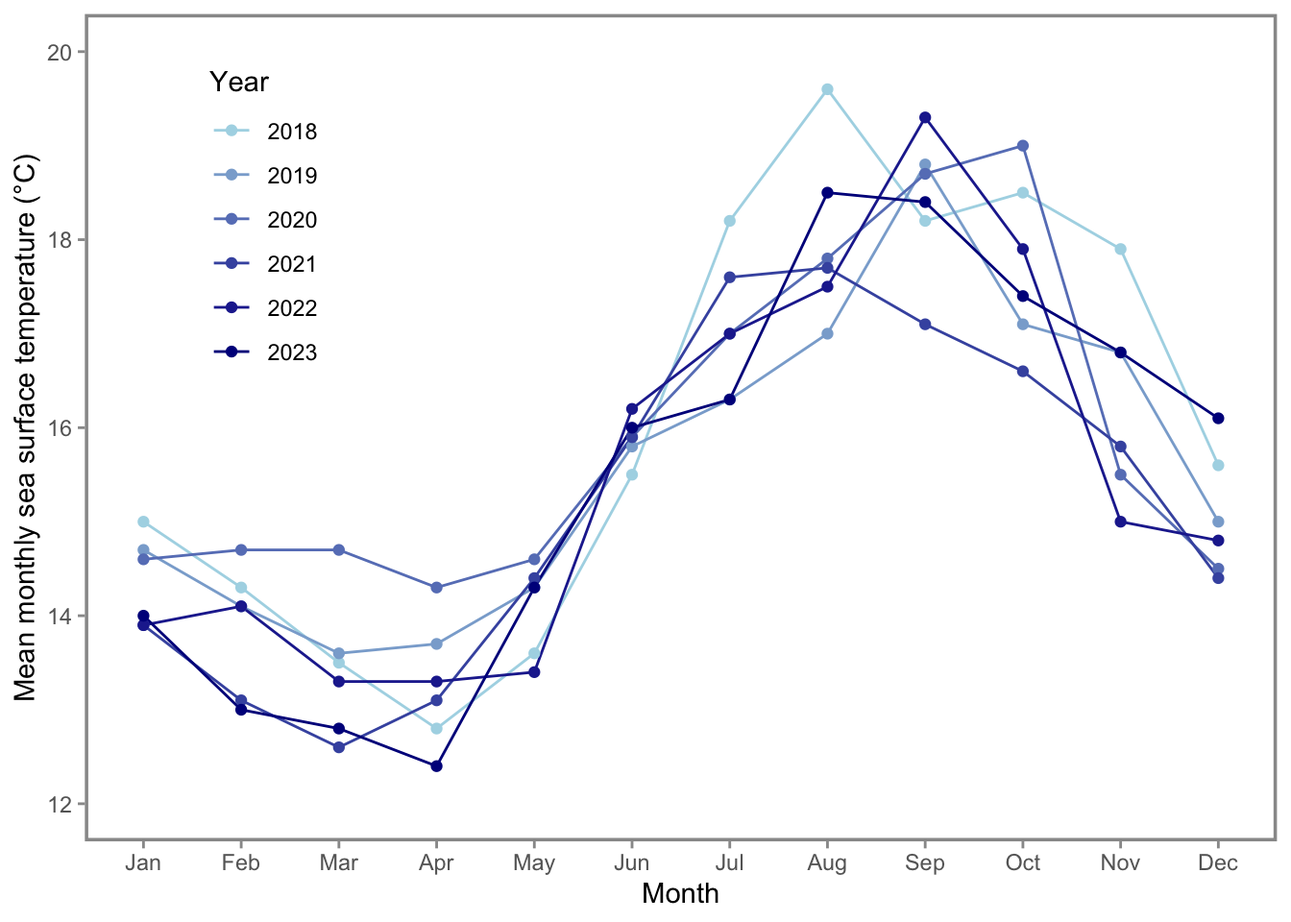
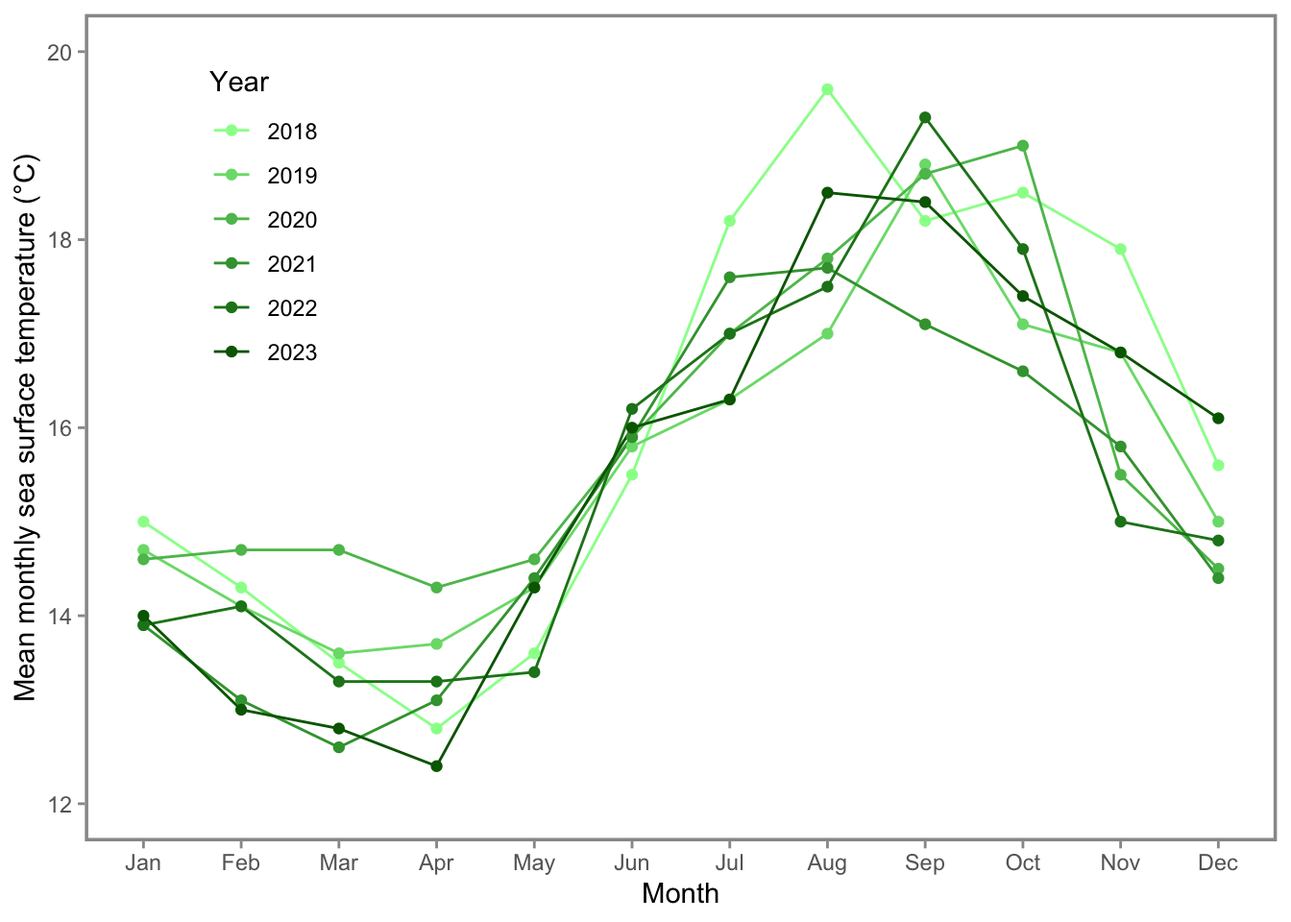
changed the glm models a little and their figures, fixed everything that wasn't rendering properly

diff --git a/code/final_code.html b/code/final_code.html
@@ -176,16 +176,18 @@ pre > code.sourceCode > span > a:first-child::before { text-decoration: underlin
 <h2 class="anchored" data-anchor-id="problem-1.-research-writing">Problem 1. Research writing</h2>
 <section id="a.-transparent-statistical-methods" class="level3">
 <h3 class="anchored" data-anchor-id="a.-transparent-statistical-methods">a. Transparent Statistical Methods</h3>
-<p>In the first part, they used a correlation test to see if there is a relationship between teh distance in km from headwater and the annual total nitrogen load in kg per year. This could have been Pearson’s correlation since its two continuous variables or Spearman’s if its not normally distributed and nonlinear. In part 2, they used an ANOVA test to see whether the average nitrogen load measured in kg per year is different between sources(urban land, atmospheric dep, fertilizer, wastewater treatment, grasslands). This test was probably picked since there are multiple sources/groups and a one-way ANOVA tests if one group’s mean differs significantly from others</p>
+<p>In the first part, they used a Pearson’s correlation test to see if there is a relationship between the distance in km from headwater and the annual total nitrogen load in kg per year, this is assuming the data is normally distributed otherwise they could have also used Spearman’s.</p>
+<p>In part 2, they used an ANOVA test to see whether the average nitrogen load measured in kg per year is different between sources(urban land, atmospheric dep, fertilizer, wastewater treatment, grasslands). This test was probably picked since there are multiple sources/groups and a one-way ANOVA tests if one group’s mean differs significantly from others</p>
 </section>
 <section id="b.-more-information-needed" class="level3">
 <h3 class="anchored" data-anchor-id="b.-more-information-needed">b. More information needed</h3>
-<p>To improve the ANOVA interpretation, a Post-hoc test should be invluded because while ANOVA tells you that atleast one group mean is different, it doesn’t tell you how many groups or which groups are significantly different. A test like Tukey’s HSD would clarify which nitrogen sources, like fertilizer or wastewater, differ significantly in nitrogen loads. Another important thing to include would be summary statistics, like mean standard error and range, for each group, this would convey important information in the direction and magnitude of differences as well as how spread out the data is.</p>
+<p>To improve the ANOVA interpretation, a Post-hoc test should be invluded because while ANOVA tells you that atleast one group mean is different, it doesn’t tell you how many groups or which groups are significantly different. A test like Tukey’s HSD would clarify which nitrogen sources, like fertilizer or wastewater, differ significantly in nitrogen loads.</p>
+<p>Another important thing to include would be summary statistics, like mean, standard error, and range, for each group, this would convey important information in the direction and magnitude of differences as well as how spread out the data is.</p>
 </section>
 <section id="c.-suggestions-for-rewriting" class="level3">
 <h3 class="anchored" data-anchor-id="c.-suggestions-for-rewriting">c.&nbsp;Suggestions for rewriting</h3>
 <p>Sites farther from the river headwaters were associated with higher total annual nitrogen loads, suggesting that nitrogen accumulates as water flows downstream. We rejected the null hypothesis that there is no correlation between distance from headwater (km) and annual total nitrogen load (kg year-1) (Pearson’s correlation test, r = correlation coefficient, p = 0.03, a = 0.05).</p>
-<p>Nitrogen load varied significantly across different source types; source [a] contributed more nitrogen than [b] which suggests that [a] is a key driver of elevated nitrogen levels in the system. We rejected the null hypothesis that there is no difference in average nitrogen load (kg year-1) between sources (urban land, atmospheric deposition, fertilizer, wastewater treatment, and grasslands) (one-way ANOVA, F=test statistic, df= degrees of freedom, p = 0.02, a = 0.05). A follow up post-hoc Tukey’s HSD test determined that source [a] ( mean difference = average kg/yr, p = p-value ) had significantly higher nitrogen loads than source [b] (mean difference = average kg/yr, p= p-value ); no significant differences were found between the other sources. [I used a and b in place of actual sources like fertilizer etc because this test wasn’t done so results weren’t provided ]</p>
+<p>Nitrogen load varied significantly across different source types; urban land contributed more nitrogen than atmospheric deposition which suggests that urban land is a key driver of elevated nitrogen levels in the system. We rejected the null hypothesis that there is no difference in average nitrogen load (kg year-1) between sources (urban land, atmospheric deposition, fertilizer, wastewater treatment, and grasslands) (one-way ANOVA, F=test statistic, df= degrees of freedom, p = 0.02, a = 0.05). A follow up post-hoc Tukey’s HSD test determined that urban land ( mean difference = mean kg/yr, ±SE, range = range, p = p-value ) had significantly higher nitrogen loads than atmospheric deposition (mean difference = mean kg/yr, ±SE, range = range, p= p-value ); no significant differences were found between the other sources: fertilizer, wastewater treatment, and grasslands.</p>
 </section>
 </section>
 <section id="problem-2.-data-visualization" class="level2">
@@ -199,41 +201,30 @@ pre > code.sourceCode > span > a:first-child::before { text-decoration: underlin
 <span id="cb2-4"><a href="#cb2-4" aria-hidden="true" tabindex="-1"></a>         <span class="at">month=</span> <span class="fu">month</span>(date, <span class="at">label =</span> <span class="cn">TRUE</span>)) <span class="sc">|&gt;</span> <span class="co">#changes format of data</span></span>
 <span id="cb2-5"><a href="#cb2-5" aria-hidden="true" tabindex="-1"></a>  <span class="fu">filter</span>(year <span class="sc">%in%</span>  <span class="fu">c</span>(<span class="st">"2018"</span>, <span class="st">"2019"</span>, <span class="st">"2020"</span>, <span class="st">"2021"</span>, <span class="st">"2022"</span>, <span class="st">"2023"</span>)) <span class="sc">|&gt;</span> <span class="co">#picks specific years i want</span></span>
 <span id="cb2-6"><a href="#cb2-6" aria-hidden="true" tabindex="-1"></a>  <span class="fu">group_by</span>(year, month) <span class="sc">|&gt;</span> <span class="co"># uses year and month to group data for next step</span></span>
-<span id="cb2-7"><a href="#cb2-7" aria-hidden="true" tabindex="-1"></a>  <span class="fu">summarise</span>(<span class="at">mean_monthly_sst=</span> <span class="fu">round</span>(<span class="fu">mean</span>(temp), <span class="dv">1</span>)) <span class="co">#creates rounded mean column</span></span>
+<span id="cb2-7"><a href="#cb2-7" aria-hidden="true" tabindex="-1"></a>  <span class="fu">summarise</span>(<span class="at">mean_monthly_sst=</span> <span class="fu">round</span>(<span class="fu">mean</span>(temp), <span class="dv">1</span>), <span class="at">.groups =</span> <span class="st">"drop"</span>) <span class="co">#creates rounded mean column</span></span>
 <span id="cb2-8"><a href="#cb2-8" aria-hidden="true" tabindex="-1"></a></span>
 <span id="cb2-9"><a href="#cb2-9" aria-hidden="true" tabindex="-1"></a>sst_clean<span class="sc">$</span>year <span class="ot">&lt;-</span> <span class="fu">factor</span>(sst_clean<span class="sc">$</span>year, <span class="at">levels =</span> <span class="fu">c</span>(<span class="st">"2018"</span>, <span class="st">"2019"</span>, <span class="st">"2020"</span>, <span class="st">"2021"</span>, <span class="st">"2022"</span>, <span class="st">"2023"</span>)) <span class="co">#makes year a factor for next steps</span></span>
 <span id="cb2-10"><a href="#cb2-10" aria-hidden="true" tabindex="-1"></a></span>
-<span id="cb2-11"><a href="#cb2-11" aria-hidden="true" tabindex="-1"></a><span class="fu">slice_sample</span>(sst_clean) <span class="sc">|&gt;</span> </span>
-<span id="cb2-12"><a href="#cb2-12" aria-hidden="true" tabindex="-1"></a>  <span class="fu">print</span>(<span class="at">n=</span><span class="dv">5</span>) <span class="co">#shows 5 rows</span></span></code><button title="Copy to Clipboard" class="code-copy-button"><i class="bi"></i></button></pre></div>
+<span id="cb2-11"><a href="#cb2-11" aria-hidden="true" tabindex="-1"></a><span class="co">#slice_sample(sst_clean) |&gt; </span></span>
+<span id="cb2-12"><a href="#cb2-12" aria-hidden="true" tabindex="-1"></a><span class="co">#  print(n=8) #shows 5 rows</span></span>
+<span id="cb2-13"><a href="#cb2-13" aria-hidden="true" tabindex="-1"></a></span>
+<span id="cb2-14"><a href="#cb2-14" aria-hidden="true" tabindex="-1"></a><span class="fu">slice_sample</span>(sst_clean, <span class="at">n=</span><span class="dv">5</span>) <span class="co">#shows 5 rows</span></span></code><button title="Copy to Clipboard" class="code-copy-button"><i class="bi"></i></button></pre></div>
 <div class="cell-output cell-output-stdout">
-<pre><code># A tibble: 6 × 3
-# Groups:   year [6]
+<pre><code># A tibble: 5 × 3
   year  month mean_monthly_sst
   &lt;fct&gt; &lt;ord&gt;            &lt;dbl&gt;
-1 2018  Sep               18.2
-2 2019  Feb               14.1
-3 2020  Sep               18.7
-4 2021  Apr               13.1
-5 2022  Oct               17.9
-# ℹ 1 more row</code></pre>
+1 2023  Jun               16  
+2 2020  Apr               14.3
+3 2019  May               14.3
+4 2023  Dec               16.1
+5 2021  Jan               13.9</code></pre>
 </div>
 <div class="sourceCode cell-code" id="cb4"><pre class="sourceCode r code-with-copy"><code class="sourceCode r"><span id="cb4-1"><a href="#cb4-1" aria-hidden="true" tabindex="-1"></a><span class="fu">str</span>(sst_clean) <span class="co"># shows setup of df</span></span></code><button title="Copy to Clipboard" class="code-copy-button"><i class="bi"></i></button></pre></div>
 <div class="cell-output cell-output-stdout">
-<pre><code>gropd_df [72 × 3] (S3: grouped_df/tbl_df/tbl/data.frame)
+<pre><code>tibble [72 × 3] (S3: tbl_df/tbl/data.frame)
  $ year            : Factor w/ 6 levels "2018","2019",..: 1 1 1 1 1 1 1 1 1 1 ...
  $ month           : Ord.factor w/ 12 levels "Jan"&lt;"Feb"&lt;"Mar"&lt;..: 1 2 3 4 5 6 7 8 9 10 ...
- $ mean_monthly_sst: num [1:72] 15 14.3 13.5 12.8 13.6 15.5 18.2 19.6 18.2 18.5 ...
- - attr(*, "groups")= tibble [6 × 2] (S3: tbl_df/tbl/data.frame)
-  ..$ year : Factor w/ 6 levels "2018","2019",..: 1 2 3 4 5 6
-  ..$ .rows: list&lt;int&gt; [1:6] 
-  .. ..$ : int [1:12] 1 2 3 4 5 6 7 8 9 10 ...
-  .. ..$ : int [1:12] 13 14 15 16 17 18 19 20 21 22 ...
-  .. ..$ : int [1:12] 25 26 27 28 29 30 31 32 33 34 ...
-  .. ..$ : int [1:12] 37 38 39 40 41 42 43 44 45 46 ...
-  .. ..$ : int [1:12] 49 50 51 52 53 54 55 56 57 58 ...
-  .. ..$ : int [1:12] 61 62 63 64 65 66 67 68 69 70 ...
-  .. ..@ ptype: int(0) 
-  ..- attr(*, ".drop")= logi TRUE</code></pre>
+ $ mean_monthly_sst: num [1:72] 15 14.3 13.5 12.8 13.6 15.5 18.2 19.6 18.2 18.5 ...</code></pre>
 </div>
 </div>
 </section>
@@ -244,7 +235,7 @@ pre > code.sourceCode > span > a:first-child::before { text-decoration: underlin
 <span id="cb6-2"><a href="#cb6-2" aria-hidden="true" tabindex="-1"></a>  <span class="fu">geom_line</span>()<span class="sc">+</span><span class="co">#adds line to connect data</span></span>
 <span id="cb6-3"><a href="#cb6-3" aria-hidden="true" tabindex="-1"></a>  <span class="fu">geom_point</span>()<span class="sc">+</span> <span class="co">#adds datapoints</span></span>
 <span id="cb6-4"><a href="#cb6-4" aria-hidden="true" tabindex="-1"></a>  <span class="fu">scale_color_manual</span>(</span>
-<span id="cb6-5"><a href="#cb6-5" aria-hidden="true" tabindex="-1"></a>    <span class="at">values =</span> <span class="fu">colorRampPalette</span>(<span class="fu">c</span>(<span class="st">"lightblue"</span>, <span class="st">"darkblue"</span>))(<span class="dv">6</span>),   <span class="co"># manually adds a scale of 6 blue colors</span></span>
+<span id="cb6-5"><a href="#cb6-5" aria-hidden="true" tabindex="-1"></a>    <span class="at">values =</span> <span class="fu">colorRampPalette</span>(<span class="fu">c</span>(<span class="st">"palegreen"</span>, <span class="st">"darkgreen"</span>))(<span class="dv">6</span>),   <span class="co"># manually adds a scale of 6 green colors</span></span>
 <span id="cb6-6"><a href="#cb6-6" aria-hidden="true" tabindex="-1"></a>    <span class="at">name =</span> <span class="st">"Year"</span></span>
 <span id="cb6-7"><a href="#cb6-7" aria-hidden="true" tabindex="-1"></a>  ) <span class="sc">+</span><span class="co">#name of legend</span></span>
 <span id="cb6-8"><a href="#cb6-8" aria-hidden="true" tabindex="-1"></a>  <span class="fu">scale_y_continuous</span>(<span class="at">limits =</span> <span class="fu">c</span>(<span class="dv">12</span>,<span class="dv">20</span>))<span class="sc">+</span> <span class="co"># adds 20 to top of graph because it wasnt there before</span></span>
@@ -274,7 +265,7 @@ pre > code.sourceCode > span > a:first-child::before { text-decoration: underlin
 </section>
 <section id="b.-purpose-of-study" class="level3">
 <h3 class="anchored" data-anchor-id="b.-purpose-of-study">b. Purpose of study</h3>
-<p>The study’s aim was to investigate how nest box’s occupancy by either the target species, Swift Parrots, or competing species(Common starlings and Tree martins) is influenced by distance from the edge of the forest and time from deployment. Out of the three species, critically endangered Swift Parrots were the intended occupants of the nest boxes, Common starling and Tree martins are the nontarget species occupants.</p>
+<p>The study’s aim was to investigate how nest box’s occupancy by either the target species, Swift Parrots, or competing species(Common starlings and Tree martins) is influenced by distance from the edge of the forest and time from deployment. Out of the three species, critically endangered Swift Parrots were the intended occupants of the nest boxes, Common starling and Tree martins are the nontarget competitve species occupants.</p>
 </section>
 <section id="c.-difference-in-seasons" class="level3">
 <h3 class="anchored" data-anchor-id="c.-difference-in-seasons">c.&nbsp;Difference in seasons</h3>
@@ -324,9 +315,9 @@ pre > code.sourceCode > span > a:first-child::before { text-decoration: underlin
 <h3 class="anchored" data-anchor-id="e.-run-models">e. Run models</h3>
 <div class="cell">
 <div class="sourceCode cell-code" id="cb7"><pre class="sourceCode r code-with-copy"><code class="sourceCode r"><span id="cb7-1"><a href="#cb7-1" aria-hidden="true" tabindex="-1"></a>Model0<span class="ot">&lt;-</span> <span class="fu">glm</span>(sp <span class="sc">~</span> <span class="dv">1</span>, <span class="at">data =</span> nest_boxes_clean, <span class="at">family =</span> <span class="fu">binomial</span>()) <span class="co">#no predictors</span></span>
-<span id="cb7-2"><a href="#cb7-2" aria-hidden="true" tabindex="-1"></a>Model1<span class="ot">&lt;-</span> <span class="fu">glm</span>(sp <span class="sc">~</span> edge_distance, <span class="at">data =</span> nest_boxes_clean) <span class="co">#edge dist</span></span>
-<span id="cb7-3"><a href="#cb7-3" aria-hidden="true" tabindex="-1"></a>Model2<span class="ot">&lt;-</span> <span class="fu">glm</span>(sp <span class="sc">~</span> season, <span class="at">data =</span> nest_boxes_clean) <span class="co"># season</span></span>
-<span id="cb7-4"><a href="#cb7-4" aria-hidden="true" tabindex="-1"></a>Model3<span class="ot">&lt;-</span> <span class="fu">glm</span>(sp <span class="sc">~</span> edge_distance<span class="sc">+</span>season, <span class="at">data =</span> nest_boxes_clean) <span class="co">#both predictors</span></span></code><button title="Copy to Clipboard" class="code-copy-button"><i class="bi"></i></button></pre></div>
+<span id="cb7-2"><a href="#cb7-2" aria-hidden="true" tabindex="-1"></a>Model1<span class="ot">&lt;-</span> <span class="fu">glm</span>(sp <span class="sc">~</span> edge_distance, <span class="at">data =</span> nest_boxes_clean, <span class="at">family =</span> <span class="fu">binomial</span>()) <span class="co">#edge dist</span></span>
+<span id="cb7-3"><a href="#cb7-3" aria-hidden="true" tabindex="-1"></a>Model2<span class="ot">&lt;-</span> <span class="fu">glm</span>(sp <span class="sc">~</span> season, <span class="at">data =</span> nest_boxes_clean, <span class="at">family =</span> <span class="fu">binomial</span>()) <span class="co"># season</span></span>
+<span id="cb7-4"><a href="#cb7-4" aria-hidden="true" tabindex="-1"></a>Model3<span class="ot">&lt;-</span> <span class="fu">glm</span>(sp <span class="sc">~</span> edge_distance<span class="sc">+</span>season, <span class="at">data =</span> nest_boxes_clean, <span class="at">family =</span> <span class="fu">binomial</span>()) <span class="co">#both predictors</span></span></code><button title="Copy to Clipboard" class="code-copy-button"><i class="bi"></i></button></pre></div>
 </div>
 </section>
 <section id="f.-check-diagnostics" class="level3">
@@ -352,6 +343,10 @@ pre > code.sourceCode > span > a:first-child::before { text-decoration: underlin
 <div class="sourceCode cell-code" id="cb9"><pre class="sourceCode r code-with-copy"><code class="sourceCode r"><span id="cb9-1"><a href="#cb9-1" aria-hidden="true" tabindex="-1"></a>sim1 <span class="ot">&lt;-</span> <span class="fu">simulateResiduals</span>(Model1)<span class="co">#dharma package residual graphs</span></span>
 <span id="cb9-2"><a href="#cb9-2" aria-hidden="true" tabindex="-1"></a><span class="fu">par</span>(<span class="at">mfrow =</span> <span class="fu">c</span>(<span class="dv">1</span>, <span class="dv">2</span>)) <span class="co"># 1 row 2 columns</span></span>
 <span id="cb9-3"><a href="#cb9-3" aria-hidden="true" tabindex="-1"></a><span class="fu">plot</span>(sim1)</span></code><button title="Copy to Clipboard" class="code-copy-button"><i class="bi"></i></button></pre></div>
+<div class="cell-output cell-output-stderr">
+<pre><code>Warning in newton(lsp = lsp, X = G$X, y = G$y, Eb = G$Eb, UrS = G$UrS, L = G$L,
+: Fitting terminated with step failure - check results carefully</code></pre>
+</div>
 <div class="cell-output-display">
 <div>
 <figure class="figure">
@@ -364,9 +359,9 @@ pre > code.sourceCode > span > a:first-child::before { text-decoration: underlin
 <section id="model-2-season-as-predictor" class="level4">
 <h4 class="anchored" data-anchor-id="model-2-season-as-predictor">Model 2, season as predictor</h4>
 <div class="cell">
-<div class="sourceCode cell-code" id="cb10"><pre class="sourceCode r code-with-copy"><code class="sourceCode r"><span id="cb10-1"><a href="#cb10-1" aria-hidden="true" tabindex="-1"></a>sim2 <span class="ot">&lt;-</span> <span class="fu">simulateResiduals</span>(Model2)<span class="co">#dharma package residual graphs</span></span>
-<span id="cb10-2"><a href="#cb10-2" aria-hidden="true" tabindex="-1"></a><span class="fu">par</span>(<span class="at">mfrow =</span> <span class="fu">c</span>(<span class="dv">1</span>, <span class="dv">2</span>)) <span class="co"># 1 row 2 columns</span></span>
-<span id="cb10-3"><a href="#cb10-3" aria-hidden="true" tabindex="-1"></a><span class="fu">plot</span>(sim2)</span></code><button title="Copy to Clipboard" class="code-copy-button"><i class="bi"></i></button></pre></div>
+<div class="sourceCode cell-code" id="cb11"><pre class="sourceCode r code-with-copy"><code class="sourceCode r"><span id="cb11-1"><a href="#cb11-1" aria-hidden="true" tabindex="-1"></a>sim2 <span class="ot">&lt;-</span> <span class="fu">simulateResiduals</span>(Model2)<span class="co">#dharma package residual graphs</span></span>
+<span id="cb11-2"><a href="#cb11-2" aria-hidden="true" tabindex="-1"></a><span class="fu">par</span>(<span class="at">mfrow =</span> <span class="fu">c</span>(<span class="dv">1</span>, <span class="dv">2</span>)) <span class="co"># 1 row 2 columns</span></span>
+<span id="cb11-3"><a href="#cb11-3" aria-hidden="true" tabindex="-1"></a><span class="fu">plot</span>(sim2)</span></code><button title="Copy to Clipboard" class="code-copy-button"><i class="bi"></i></button></pre></div>
 <div class="cell-output-display">
 <div>
 <figure class="figure">
@@ -379,9 +374,9 @@ pre > code.sourceCode > span > a:first-child::before { text-decoration: underlin
 <section id="model-3-both-edge-distance-and-season-as-predictor" class="level4">
 <h4 class="anchored" data-anchor-id="model-3-both-edge-distance-and-season-as-predictor">Model 3, both edge distance and season as predictor</h4>
 <div class="cell">
-<div class="sourceCode cell-code" id="cb11"><pre class="sourceCode r code-with-copy"><code class="sourceCode r"><span id="cb11-1"><a href="#cb11-1" aria-hidden="true" tabindex="-1"></a>sim3 <span class="ot">&lt;-</span> <span class="fu">simulateResiduals</span>(Model3)<span class="co">#dharma package residual graphs</span></span>
-<span id="cb11-2"><a href="#cb11-2" aria-hidden="true" tabindex="-1"></a><span class="fu">par</span>(<span class="at">mfrow =</span> <span class="fu">c</span>(<span class="dv">1</span>, <span class="dv">2</span>)) <span class="co"># 1 row 2 columns</span></span>
-<span id="cb11-3"><a href="#cb11-3" aria-hidden="true" tabindex="-1"></a><span class="fu">plot</span>(sim3)</span></code><button title="Copy to Clipboard" class="code-copy-button"><i class="bi"></i></button></pre></div>
+<div class="sourceCode cell-code" id="cb12"><pre class="sourceCode r code-with-copy"><code class="sourceCode r"><span id="cb12-1"><a href="#cb12-1" aria-hidden="true" tabindex="-1"></a>sim3 <span class="ot">&lt;-</span> <span class="fu">simulateResiduals</span>(Model3)<span class="co">#dharma package residual graphs</span></span>
+<span id="cb12-2"><a href="#cb12-2" aria-hidden="true" tabindex="-1"></a><span class="fu">par</span>(<span class="at">mfrow =</span> <span class="fu">c</span>(<span class="dv">1</span>, <span class="dv">2</span>)) <span class="co"># 1 row 2 columns</span></span>
+<span id="cb12-3"><a href="#cb12-3" aria-hidden="true" tabindex="-1"></a><span class="fu">plot</span>(sim3)</span></code><button title="Copy to Clipboard" class="code-copy-button"><i class="bi"></i></button></pre></div>
 <div class="cell-output-display">
 <div>
 <figure class="figure">
@@ -395,43 +390,43 @@ pre > code.sourceCode > span > a:first-child::before { text-decoration: underlin
 <section id="g.-select-best-model" class="level3">
 <h3 class="anchored" data-anchor-id="g.-select-best-model">g. Select best model</h3>
 <div class="cell">
-<div class="sourceCode cell-code" id="cb12"><pre class="sourceCode r code-with-copy"><code class="sourceCode r"><span id="cb12-1"><a href="#cb12-1" aria-hidden="true" tabindex="-1"></a><span class="fu">AICc</span>(Model0, Model1, Model2, Model3) <span class="sc">|&gt;</span> </span>
-<span id="cb12-2"><a href="#cb12-2" aria-hidden="true" tabindex="-1"></a>  <span class="fu">arrange</span>(AICc) <span class="co">#Akaike’s Information Criterion(AIC) test, arranges from low to high or best model to worst</span></span></code><button title="Copy to Clipboard" class="code-copy-button"><i class="bi"></i></button></pre></div>
+<div class="sourceCode cell-code" id="cb13"><pre class="sourceCode r code-with-copy"><code class="sourceCode r"><span id="cb13-1"><a href="#cb13-1" aria-hidden="true" tabindex="-1"></a><span class="fu">AICc</span>(Model0, Model1, Model2, Model3) <span class="sc">|&gt;</span> </span>
+<span id="cb13-2"><a href="#cb13-2" aria-hidden="true" tabindex="-1"></a>  <span class="fu">arrange</span>(AICc) <span class="co">#Akaike’s Information Criterion(AIC) test, arranges from low to high or best model to worst</span></span></code><button title="Copy to Clipboard" class="code-copy-button"><i class="bi"></i></button></pre></div>
 <div class="cell-output cell-output-stdout">
 <pre><code>       df     AICc
-Model3  4 232.5485
-Model1  3 235.9030
-Model0  1 238.8318
-Model2  3 242.5425</code></pre>
+Model3  3 226.3133
+Model1  2 229.6716
+Model2  2 236.3744
+Model0  1 238.8318</code></pre>
 </div>
 </div>
-<p>The best model as determined by Akaike’s Information Criterion(AIC) is Model 3 which had both edge distance and season as predictors, this had the lowest AICc score(232.5) compared to the others(Model0 - 245.0, Model1 - 235.9, Model2 - 242.5)</p>
+<p>The best model as determined by Akaike’s Information Criterion(AIC) is Model 3 which had both edge distance and season as predictors, this had the lowest AICc score(226.31) compared to the others(Model0 - 238.83, Model1 - 229.67, Model2 - 236.37)</p>
 </section>
 <section id="h.-visualize-model-predictions" class="level3">
 <h3 class="anchored" data-anchor-id="h.-visualize-model-predictions">h. Visualize model predictions</h3>
 <div class="cell">
-<div class="sourceCode cell-code" id="cb14"><pre class="sourceCode r code-with-copy"><code class="sourceCode r"><span id="cb14-1"><a href="#cb14-1" aria-hidden="true" tabindex="-1"></a>prediction <span class="ot">&lt;-</span> <span class="fu">ggpredict</span>(Model3, <span class="at">terms =</span> <span class="fu">c</span>(<span class="st">"edge_distance"</span>, <span class="st">"season"</span>)) <span class="co">#creates prediction based on model 3 and using both the predictor variables</span></span>
-<span id="cb14-2"><a href="#cb14-2" aria-hidden="true" tabindex="-1"></a></span>
-<span id="cb14-3"><a href="#cb14-3" aria-hidden="true" tabindex="-1"></a><span class="co">#graphics.off() #fixes graph issue and removes the old plots that were causing the graphics problem</span></span>
-<span id="cb14-4"><a href="#cb14-4" aria-hidden="true" tabindex="-1"></a></span>
-<span id="cb14-5"><a href="#cb14-5" aria-hidden="true" tabindex="-1"></a><span class="fu">ggplot</span>(prediction, <span class="fu">aes</span>(<span class="at">x =</span> x, <span class="at">y =</span> predicted, <span class="at">group =</span> group, <span class="at">color =</span> group, <span class="at">fill =</span> group)) <span class="sc">+</span><span class="co">#takes prediction data, sets axis, and groups and colors by the groups made</span></span>
-<span id="cb14-6"><a href="#cb14-6" aria-hidden="true" tabindex="-1"></a>  <span class="fu">geom_ribbon</span>(<span class="fu">aes</span>(<span class="at">ymin =</span> conf.low, <span class="at">ymax =</span> conf.high), <span class="at">alpha =</span> <span class="fl">0.2</span>, <span class="at">color =</span> <span class="cn">NA</span>) <span class="sc">+</span><span class="co">#95% conf interval, removes color so i can manually add later</span></span>
-<span id="cb14-7"><a href="#cb14-7" aria-hidden="true" tabindex="-1"></a>  <span class="fu">geom_line</span>(<span class="at">size =</span> <span class="fl">1.2</span>) <span class="sc">+</span><span class="co">#adds line</span></span>
-<span id="cb14-8"><a href="#cb14-8" aria-hidden="true" tabindex="-1"></a>  <span class="fu">geom_jitter</span>(<span class="at">data =</span> nest_boxes_clean,</span>
-<span id="cb14-9"><a href="#cb14-9" aria-hidden="true" tabindex="-1"></a>              <span class="fu">aes</span>(<span class="at">x =</span> edge_distance, <span class="at">y =</span> sp, <span class="at">color =</span> <span class="fu">factor</span>(season)),</span>
-<span id="cb14-10"><a href="#cb14-10" aria-hidden="true" tabindex="-1"></a>              <span class="at">width =</span> <span class="dv">20</span>, <span class="at">height =</span> <span class="fl">0.05</span>, <span class="at">alpha =</span> <span class="fl">0.5</span>,</span>
-<span id="cb14-11"><a href="#cb14-11" aria-hidden="true" tabindex="-1"></a>              <span class="at">inherit.aes =</span> <span class="cn">FALSE</span>) <span class="sc">+</span><span class="co"># adds jitter points from the underlying data, jittered by width and height because otherwise it was overlapping</span></span>
-<span id="cb14-12"><a href="#cb14-12" aria-hidden="true" tabindex="-1"></a>  <span class="fu">labs</span>(<span class="at">title =</span> <span class="st">"Model Prediction of Swift Parrot Box Occupancy by Edge Distance and Season"</span>,</span>
-<span id="cb14-13"><a href="#cb14-13" aria-hidden="true" tabindex="-1"></a>    <span class="at">x =</span> <span class="st">"Distance to Forest Edge (meters)"</span>,</span>
-<span id="cb14-14"><a href="#cb14-14" aria-hidden="true" tabindex="-1"></a>    <span class="at">y =</span> <span class="st">"Probability of Swift Parrot Occupancy"</span>,</span>
-<span id="cb14-15"><a href="#cb14-15" aria-hidden="true" tabindex="-1"></a>    <span class="at">color =</span> <span class="st">"Season"</span>,</span>
-<span id="cb14-16"><a href="#cb14-16" aria-hidden="true" tabindex="-1"></a>    <span class="at">fill =</span> <span class="st">"Season"</span></span>
-<span id="cb14-17"><a href="#cb14-17" aria-hidden="true" tabindex="-1"></a>  ) <span class="sc">+</span><span class="co">#adds title and axis labels</span></span>
-<span id="cb14-18"><a href="#cb14-18" aria-hidden="true" tabindex="-1"></a>  <span class="fu">theme_minimal</span>() <span class="sc">+</span></span>
-<span id="cb14-19"><a href="#cb14-19" aria-hidden="true" tabindex="-1"></a>  <span class="fu">theme</span>(</span>
-<span id="cb14-20"><a href="#cb14-20" aria-hidden="true" tabindex="-1"></a>    <span class="at">panel.grid =</span> <span class="fu">element_blank</span>())<span class="sc">+</span> <span class="co">#removes gridlines</span></span>
-<span id="cb14-21"><a href="#cb14-21" aria-hidden="true" tabindex="-1"></a>  <span class="fu">scale_color_manual</span>(<span class="at">values =</span> <span class="fu">c</span>(<span class="st">"2016"</span> <span class="ot">=</span> <span class="st">"hotpink2"</span>, <span class="st">"2019"</span> <span class="ot">=</span> <span class="st">"purple"</span>)) <span class="sc">+</span> <span class="co"># dots and lines colors</span></span>
-<span id="cb14-22"><a href="#cb14-22" aria-hidden="true" tabindex="-1"></a>  <span class="fu">scale_fill_manual</span>(<span class="at">values =</span> <span class="fu">c</span>(<span class="st">"2016"</span> <span class="ot">=</span> <span class="st">"hotpink2"</span>, <span class="st">"2019"</span> <span class="ot">=</span> <span class="st">"purple"</span>)) <span class="co"># confidence interval colors</span></span></code><button title="Copy to Clipboard" class="code-copy-button"><i class="bi"></i></button></pre></div>
+<div class="sourceCode cell-code" id="cb15"><pre class="sourceCode r code-with-copy"><code class="sourceCode r"><span id="cb15-1"><a href="#cb15-1" aria-hidden="true" tabindex="-1"></a>prediction <span class="ot">&lt;-</span> <span class="fu">ggpredict</span>(Model3, <span class="at">terms =</span> <span class="fu">c</span>(<span class="st">"edge_distance"</span>, <span class="st">"season"</span>)) <span class="co">#creates prediction based on model 3 and using both the predictor variables</span></span>
+<span id="cb15-2"><a href="#cb15-2" aria-hidden="true" tabindex="-1"></a></span>
+<span id="cb15-3"><a href="#cb15-3" aria-hidden="true" tabindex="-1"></a><span class="co">#graphics.off() #fixes graph issue and removes the old plots that were causing the graphics problem</span></span>
+<span id="cb15-4"><a href="#cb15-4" aria-hidden="true" tabindex="-1"></a></span>
+<span id="cb15-5"><a href="#cb15-5" aria-hidden="true" tabindex="-1"></a><span class="fu">ggplot</span>(prediction, <span class="fu">aes</span>(<span class="at">x =</span> x, <span class="at">y =</span> predicted, <span class="at">group =</span> group, <span class="at">color =</span> group, <span class="at">fill =</span> group)) <span class="sc">+</span><span class="co">#takes prediction data, sets axis, and groups and colors by the groups made</span></span>
+<span id="cb15-6"><a href="#cb15-6" aria-hidden="true" tabindex="-1"></a>  <span class="fu">geom_ribbon</span>(<span class="fu">aes</span>(<span class="at">ymin =</span> conf.low, <span class="at">ymax =</span> conf.high), <span class="at">alpha =</span> <span class="fl">0.2</span>, <span class="at">color =</span> <span class="cn">NA</span>) <span class="sc">+</span><span class="co">#95% conf interval, removes color so i can manually add later</span></span>
+<span id="cb15-7"><a href="#cb15-7" aria-hidden="true" tabindex="-1"></a>  <span class="fu">geom_line</span>(<span class="at">size =</span> <span class="fl">1.2</span>) <span class="sc">+</span><span class="co">#adds line</span></span>
+<span id="cb15-8"><a href="#cb15-8" aria-hidden="true" tabindex="-1"></a>  <span class="fu">geom_jitter</span>(<span class="at">data =</span> nest_boxes_clean,</span>
+<span id="cb15-9"><a href="#cb15-9" aria-hidden="true" tabindex="-1"></a>              <span class="fu">aes</span>(<span class="at">x =</span> edge_distance, <span class="at">y =</span> sp, <span class="at">color =</span> <span class="fu">factor</span>(season)),</span>
+<span id="cb15-10"><a href="#cb15-10" aria-hidden="true" tabindex="-1"></a>              <span class="at">width =</span> <span class="dv">20</span>, <span class="at">height =</span> <span class="fl">0.05</span>, <span class="at">alpha =</span> <span class="fl">0.5</span>,</span>
+<span id="cb15-11"><a href="#cb15-11" aria-hidden="true" tabindex="-1"></a>              <span class="at">inherit.aes =</span> <span class="cn">FALSE</span>) <span class="sc">+</span><span class="co"># adds jitter points from the underlying data, jittered by width and height because otherwise it was overlapping</span></span>
+<span id="cb15-12"><a href="#cb15-12" aria-hidden="true" tabindex="-1"></a>  <span class="fu">labs</span>(<span class="at">title =</span> <span class="st">"Model Prediction of Swift Parrot Box Occupancy by Edge Distance and Season"</span>,</span>
+<span id="cb15-13"><a href="#cb15-13" aria-hidden="true" tabindex="-1"></a>    <span class="at">x =</span> <span class="st">"Distance to Forest Edge (meters)"</span>,</span>
+<span id="cb15-14"><a href="#cb15-14" aria-hidden="true" tabindex="-1"></a>    <span class="at">y =</span> <span class="st">"Probability of Swift Parrot Occupancy"</span>,</span>
+<span id="cb15-15"><a href="#cb15-15" aria-hidden="true" tabindex="-1"></a>    <span class="at">color =</span> <span class="st">"Season"</span>,</span>
+<span id="cb15-16"><a href="#cb15-16" aria-hidden="true" tabindex="-1"></a>    <span class="at">fill =</span> <span class="st">"Season"</span></span>
+<span id="cb15-17"><a href="#cb15-17" aria-hidden="true" tabindex="-1"></a>  ) <span class="sc">+</span><span class="co">#adds title and axis labels</span></span>
+<span id="cb15-18"><a href="#cb15-18" aria-hidden="true" tabindex="-1"></a>  <span class="fu">theme_minimal</span>() <span class="sc">+</span></span>
+<span id="cb15-19"><a href="#cb15-19" aria-hidden="true" tabindex="-1"></a>  <span class="fu">theme</span>(</span>
+<span id="cb15-20"><a href="#cb15-20" aria-hidden="true" tabindex="-1"></a>    <span class="at">panel.grid =</span> <span class="fu">element_blank</span>())<span class="sc">+</span> <span class="co">#removes gridlines</span></span>
+<span id="cb15-21"><a href="#cb15-21" aria-hidden="true" tabindex="-1"></a>  <span class="fu">scale_color_manual</span>(<span class="at">values =</span> <span class="fu">c</span>(<span class="st">"2016"</span> <span class="ot">=</span> <span class="st">"hotpink2"</span>, <span class="st">"2019"</span> <span class="ot">=</span> <span class="st">"purple"</span>)) <span class="sc">+</span> <span class="co"># dots and lines colors</span></span>
+<span id="cb15-22"><a href="#cb15-22" aria-hidden="true" tabindex="-1"></a>  <span class="fu">scale_fill_manual</span>(<span class="at">values =</span> <span class="fu">c</span>(<span class="st">"2016"</span> <span class="ot">=</span> <span class="st">"hotpink2"</span>, <span class="st">"2019"</span> <span class="ot">=</span> <span class="st">"purple"</span>)) <span class="co"># confidence interval colors</span></span></code><button title="Copy to Clipboard" class="code-copy-button"><i class="bi"></i></button></pre></div>
 <div class="cell-output-display">
 <div>
 <figure class="figure">
@@ -445,30 +440,30 @@ Model2  3 242.5425</code></pre>
 <h3 class="anchored" data-anchor-id="i.-write-caption-for-figure">i. Write caption for figure</h3>
 <section id="figure-1." class="level5">
 <h5 class="anchored" data-anchor-id="figure-1.">Figure 1.</h5>
-<p><strong>Model Prediction of Swift Parrot Box Occupancy by Edge Distance and Season.</strong> <em>This model suggests that as distance to forest edge increases, probability of swift parrot occupancy decreases, also, in 2016 the probability was higher than in 2019.</em> This figure displays model-predicted probabilities of Swift Parrot nest box occupancy derived from a general logistic regression model that includes edge distance and season as predictor variables. Distance to the forest edge is shown on the x axis; season is shown in the legend with color differentiation, pink refering to the summer breeding season in 2016 and purple for the summer breeding season in 2019. Shaded ribbons represent 95% confidence intervals around the predicted probability lines and Jittered points show the raw binary data (1 = box occupied, 0 = unoccupied), with the same colors indicating season. The data came from: Stojanovic, Dejan et al.&nbsp;(2021). Do nest boxes breed the target species or its competitors? A case study of a critically endangered bird [Dataset]. Dryad. https://doi.org/10.5061/dryad.83bk3j9sb</p>
+<p><strong>Model Prediction of Swift Parrot Box Occupancy by Edge Distance and Season.</strong> <em>This model suggests that as distance to forest edge increases, probability of swift parrot occupancy decreases, also, in 2016 the probability was higher than in 2019.</em> This figure displays model-predicted probabilities of Swift Parrot nest box occupancy derived from a general logistic regression model that includes edge distance and season as predictor variables. Distance to the forest edge(0 to 1000 meters) is shown on the x axis; season is shown in the legend with color differentiation, pink refering to the summer breeding season in 2016 and purple for the summer breeding season in 2019. Shaded ribbons represent 95% confidence intervals around the predicted probability lines and Jittered points show the raw binary data (1 = box occupied, 0 = unoccupied), with the same colors indicating season. The data came from: Stojanovic, Dejan et al.&nbsp;(2021). Do nest boxes breed the target species or its competitors? A case study of a critically endangered bird [Dataset]. Dryad. https://doi.org/10.5061/dryad.83bk3j9sb</p>
 </section>
 </section>
 <section id="j.-calculate-model-predictions" class="level3">
 <h3 class="anchored" data-anchor-id="j.-calculate-model-predictions">j. Calculate model predictions</h3>
 <div class="cell">
-<div class="sourceCode cell-code" id="cb15"><pre class="sourceCode r code-with-copy"><code class="sourceCode r"><span id="cb15-1"><a href="#cb15-1" aria-hidden="true" tabindex="-1"></a>predicted_table <span class="ot">&lt;-</span> <span class="fu">ggpredict</span>(Model3, <span class="at">terms =</span> <span class="fu">c</span>(<span class="st">"edge_distance [0,900]"</span>, <span class="st">"season"</span>)) <span class="co">#runs prediction based on model 3</span></span>
-<span id="cb15-2"><a href="#cb15-2" aria-hidden="true" tabindex="-1"></a><span class="fu">print</span>(predicted_table)</span></code><button title="Copy to Clipboard" class="code-copy-button"><i class="bi"></i></button></pre></div>
+<div class="sourceCode cell-code" id="cb16"><pre class="sourceCode r code-with-copy"><code class="sourceCode r"><span id="cb16-1"><a href="#cb16-1" aria-hidden="true" tabindex="-1"></a>predicted_table <span class="ot">&lt;-</span> <span class="fu">ggpredict</span>(Model3, <span class="at">terms =</span> <span class="fu">c</span>(<span class="st">"edge_distance [0,900]"</span>, <span class="st">"season"</span>)) <span class="co">#runs prediction based on model 3</span></span>
+<span id="cb16-2"><a href="#cb16-2" aria-hidden="true" tabindex="-1"></a><span class="fu">print</span>(predicted_table)</span></code><button title="Copy to Clipboard" class="code-copy-button"><i class="bi"></i></button></pre></div>
 <div class="cell-output cell-output-stdout">
-<pre><code># Predicted values of sp
+<pre><code># Predicted probabilities of sp
 
 season: 2016
 
 edge_distance | Predicted |     95% CI
 --------------------------------------
-            0 |      0.43 | 0.31, 0.54
-          900 |      0.13 | 0.02, 0.25
+            0 |      0.48 | 0.33, 0.64
+          900 |      0.12 | 0.06, 0.24
 
 season: 2019
 
-edge_distance | Predicted |      95% CI
----------------------------------------
-            0 |      0.30 |  0.20, 0.41
-          900 |      0.01 | -0.10, 0.12</code></pre>
+edge_distance | Predicted |     95% CI
+--------------------------------------
+            0 |      0.30 | 0.18, 0.44
+          900 |      0.06 | 0.03, 0.13</code></pre>
 </div>
 </div>
 </section>
